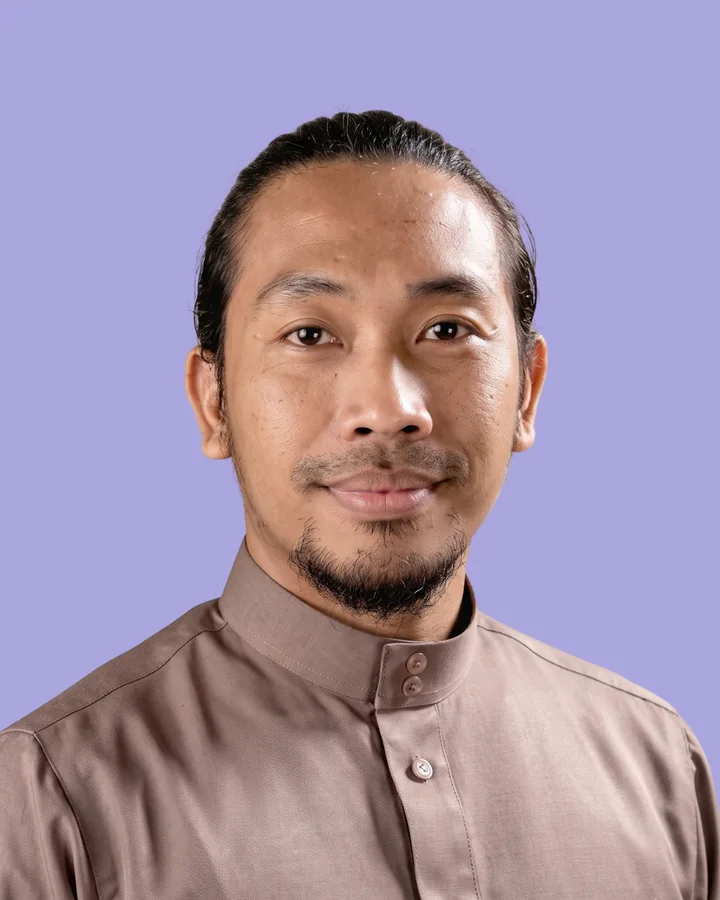
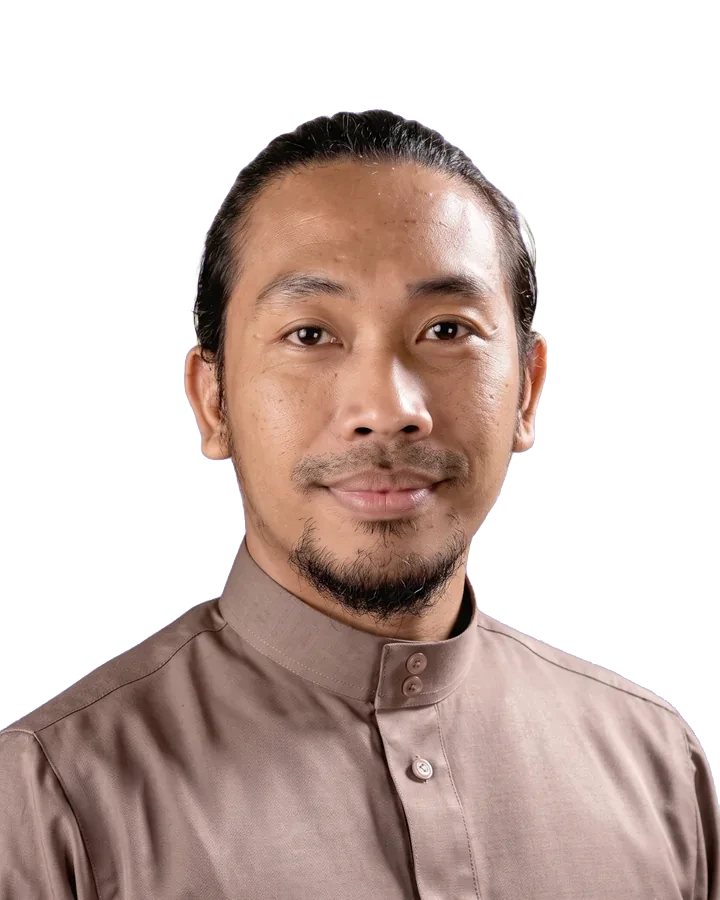
refactor: add background color support to mentor wall assets and update portrait images

diff --git a/src/data/gongaji.ts b/src/data/gongaji.ts
@@ -120,21 +120,21 @@ export const CAROUSEL_ITEMS = [
 
 // 07-mentor-wall: Stage 3 portrait wall (5x3 grid, center index 7 empty for shrinking banner)
 export const WALL_ASSETS = [
-  "07-mentor-wall/dian.webp",
-  "07-mentor-wall/ilham.webp",
-  "07-mentor-wall/teja.webp",
-  "07-mentor-wall/ardi.webp",
-  "07-mentor-wall/rikrik.webp",
-  "07-mentor-wall/ardi.webp",
-  "07-mentor-wall/rikrik.webp",
-  "",
-  "07-mentor-wall/dian.webp",
-  "07-mentor-wall/ilham.webp",
-  "07-mentor-wall/teja.webp",
-  "07-mentor-wall/dian.webp",
-  "07-mentor-wall/ilham.webp",
-  "07-mentor-wall/rikrik.webp",
-  "07-mentor-wall/ardi.webp",
+  { path: "07-mentor-wall/dian.webp", bg: "#F2A70B" },
+  { path: "07-mentor-wall/ilham.webp", bg: "#00A99D" },
+  { path: "07-mentor-wall/teja.webp", bg: "#F26419" },
+  { path: "07-mentor-wall/ardi.webp", bg: "#00B5A3" },
+  { path: "07-mentor-wall/rikrik.webp", bg: "#D65DF2" },
+  { path: "07-mentor-wall/ardi.webp", bg: "#B5E600" },
+  { path: "07-mentor-wall/rikrik.webp", bg: "#E89B00" },
+  { path: "", bg: "" },
+  { path: "07-mentor-wall/dian.webp", bg: "#FA5E17" },
+  { path: "07-mentor-wall/ilham.webp", bg: "#FF4E6B" },
+  { path: "07-mentor-wall/teja.webp", bg: "#F91D67" },
+  { path: "07-mentor-wall/dian.webp", bg: "#8B2FC0" },
+  { path: "07-mentor-wall/ilham.webp", bg: "#4CD399" },
+  { path: "07-mentor-wall/rikrik.webp", bg: "#FF663C" },
+  { path: "07-mentor-wall/ardi.webp", bg: "#702EB4" },
 ] as const
 
 export const TRUST_ITEMS = [

diff --git a/src/components/ui/easel-showcase-template.tsx b/src/components/ui/easel-showcase-template.tsx
@@ -1122,10 +1122,16 @@ export default function EaselShowcaseTemplate({
               Ustadz &amp; Ustadzah Qursus mendampingi setiap kelas, mendengarkan bacaanmu, dan mencatat perkembanganmu.
             </p>
           </div>
-          {WALL_ASSETS.map((path, i) =>
-            path ? (
-              <div key={path + i} ref={(el) => { wall.current[i] = el }} className="ea-wall" aria-hidden="true">
-                <img src={asset(path)} alt="" width={195} height={210} className="ea-portrait" />
+          {WALL_ASSETS.map((item, i) =>
+            item.path ? (
+              <div
+                key={item.path + i}
+                ref={(el) => { wall.current[i] = el }}
+                className="ea-wall"
+                style={{ backgroundColor: item.bg }}
+                aria-hidden="true"
+              >
+                <img src={asset(item.path)} alt="" width={195} height={210} className="ea-portrait" />
               </div>
             ) : null,
           )}
